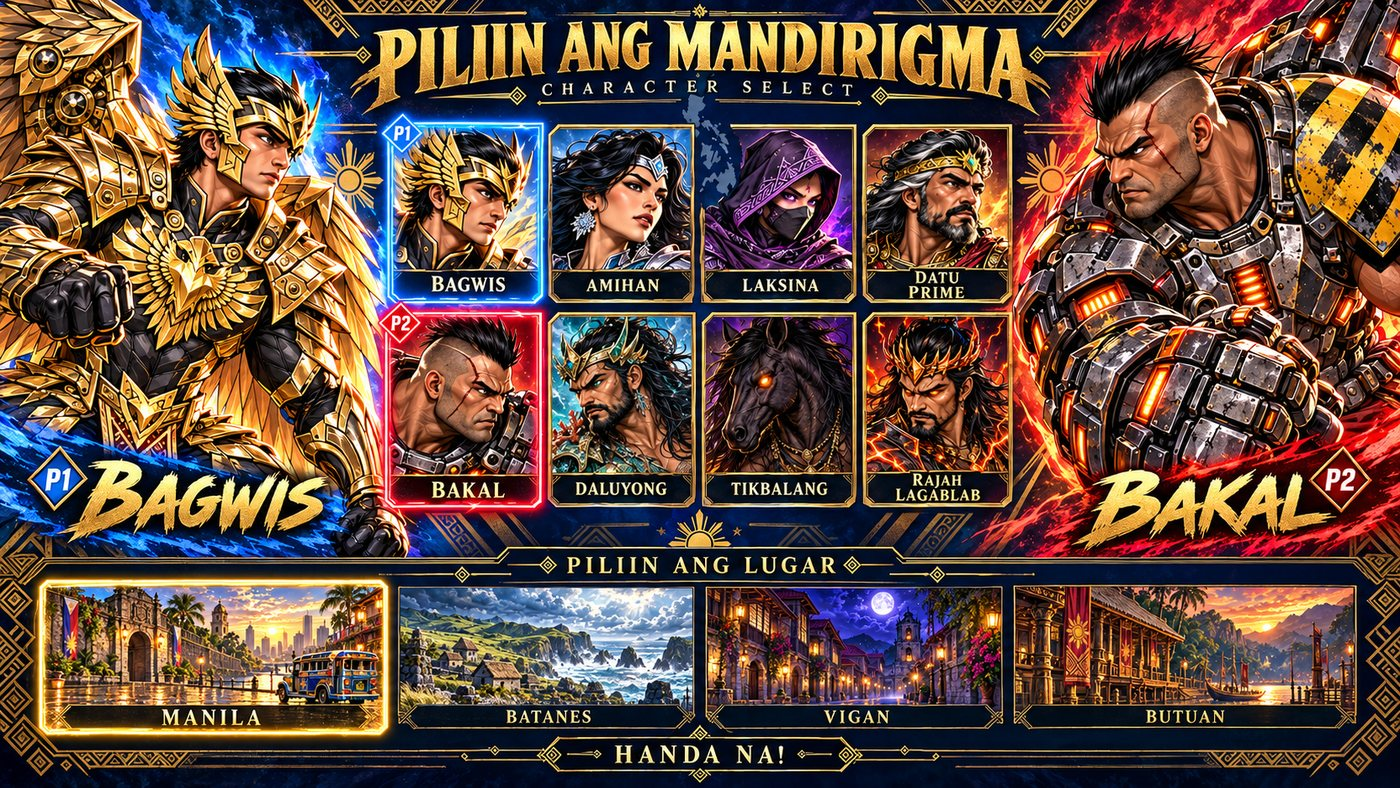
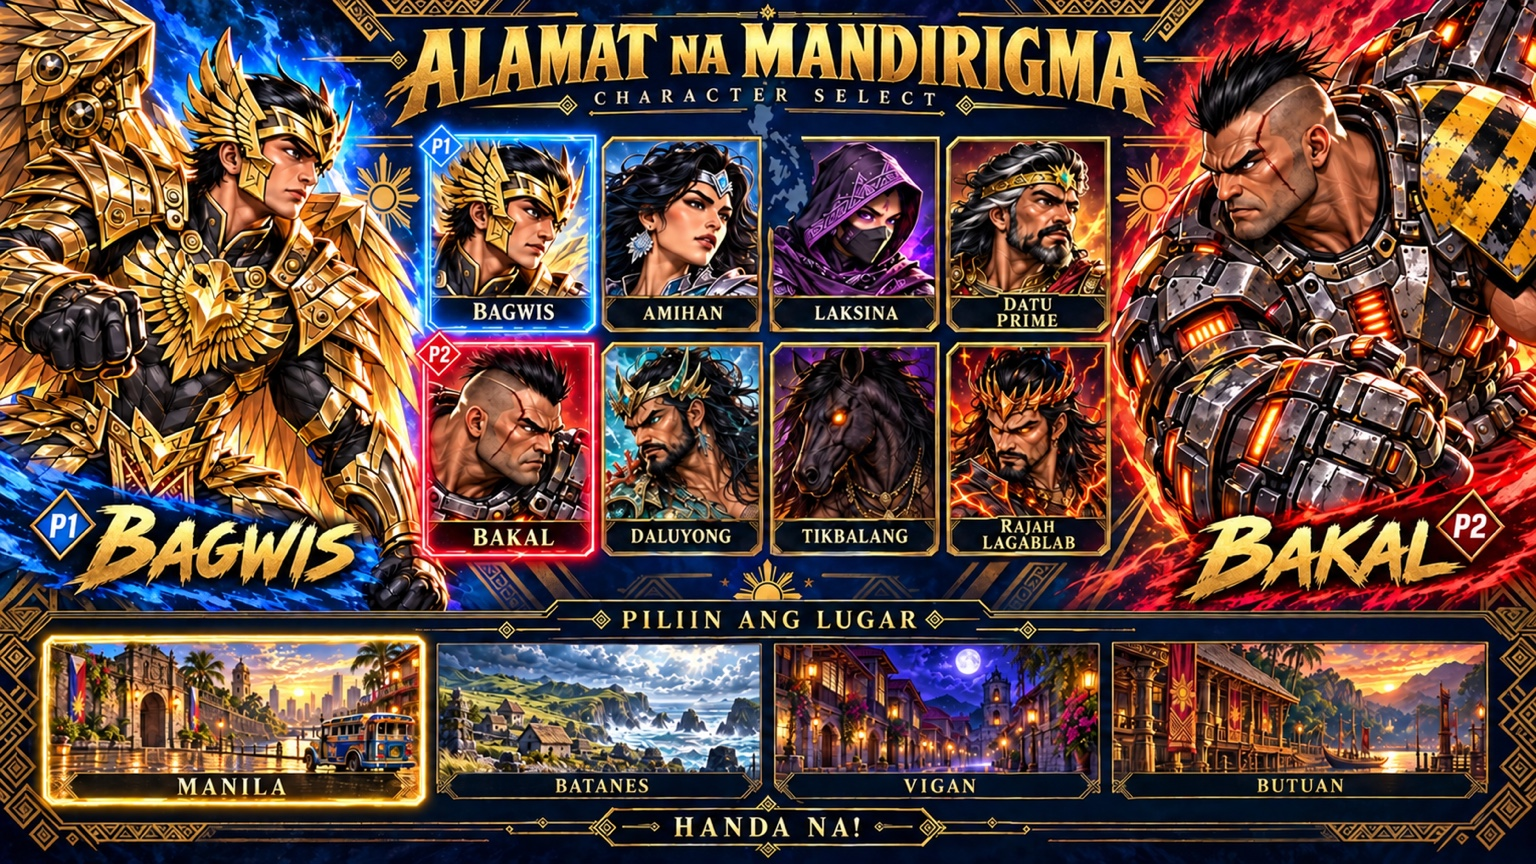
Replace website artwork with ALAMAT NA MANDIRIGMA image

Changed region(s): [[0.0, 0.0, 1.0, 1.0]]

diff --git a/laf-game-series/styles.css b/laf-game-series/styles.css
@@ -1,4 +1,4 @@
-:root{--bg:#f4eedf;--ink:#191713;--char:#211f1b;--gold:#c99b43;--gold2:#efd79d;--cream:#fff9ed;--muted:#756d60;--line:#d7c7a7;--black:#0b0b0a}*{box-sizing:border-box}html{scroll-behavior:smooth}body{margin:0;background:var(--bg);color:var(--ink);font-family:Inter,ui-sans-serif,system-ui,-apple-system,BlinkMacSystemFont,"Segoe UI",sans-serif;overflow-x:hidden}.pattern{position:fixed;z-index:-1;opacity:.14;pointer-events:none}.pattern-a{width:420px;height:420px;right:-180px;top:80px;background:repeating-linear-gradient(45deg,var(--gold) 0 2px,transparent 2px 14px);transform:rotate(15deg)}.pattern-b{width:360px;height:360px;left:-190px;bottom:40px;border:1px solid var(--gold);border-radius:50%;box-shadow:0 0 0 18px transparent,0 0 0 20px var(--gold),0 0 0 40px transparent,0 0 0 42px var(--gold)}.topbar{position:sticky;top:0;z-index:100;display:flex;align-items:center;justify-content:space-between;gap:24px;padding:14px clamp(18px,4vw,64px);background:rgba(244,238,223,.9);border-bottom:1px solid rgba(117,109,96,.25);backdrop-filter:blur(15px)}.brand{display:flex;align-items:center;gap:10px;text-decoration:none;color:var(--ink)}.brand-mark{display:grid;place-items:center;width:42px;height:42px;border:1px solid var(--gold);background:var(--char);color:var(--gold2);font-weight:900;letter-spacing:-1px}.brand-mark.logo-mark{overflow:hidden;padding:2px}.brand-mark.logo-mark img{width:100%;height:100%;object-fit:contain;display:block}.brand strong,.brand small{display:block}.brand strong{font-size:13px;letter-spacing:.12em}.brand small{font-size:9px;letter-spacing:.3em;color:var(--muted);margin-top:2px}.nav{display:flex;gap:24px}.nav a{color:var(--ink);text-decoration:none;text-transform:uppercase;font-size:11px;font-weight:800;letter-spacing:.12em}.menu{display:none;border:0;background:transparent;font-size:26px}.hero{min-height:82vh;padding:clamp(50px,8vw,110px) clamp(18px,6vw,90px);display:grid;grid-template-columns:1.1fr .9fr;align-items:center;gap:clamp(30px,6vw,90px)}.eyebrow{font-size:11px;font-weight:900;letter-spacing:.22em;color:#9b6d1e}.hero h1{font-family:Georgia,serif;font-size:clamp(50px,8vw,118px);line-height:.84;letter-spacing:-.055em;margin:14px 0 26px}.hero h1 span{color:#a87927}.lead{max-width:700px;font-size:clamp(17px,2vw,23px);line-height:1.55;color:#4d473e}.cta-row{display:flex;gap:12px;flex-wrap:wrap;margin-top:28px}.btn{display:inline-flex;align-items:center;justify-content:center;min-height:48px;padding:0 20px;border:1px solid var(--ink);font-size:11px;font-weight:900;letter-spacing:.1em;text-decoration:none;cursor:pointer}.btn.primary{background:var(--ink);color:var(--cream)}.btn.ghost{background:transparent;color:var(--ink)}.btn:disabled{opacity:.42;cursor:not-allowed}.pay-strip{display:flex;align-items:center;gap:15px;flex-wrap:wrap;margin-top:38px;font-size:10px}.pay-strip span{color:var(--muted);letter-spacing:.14em}.pay-strip b{padding:6px 9px;border:1px solid var(--line);background:#fff8}.hero-card{position:relative;background:var(--char);padding:12px;box-shadow:0 28px 70px #2f271b2d;transform:none}.hero-image{aspect-ratio:16/9;background:#101c2d url('assets/alamat-hero.jpg?v=9') center/cover no-repeat;filter:none}.hero-meta{padding:18px;color:var(--cream)}.hero-meta strong,.hero-meta small{display:block}.hero-meta strong{font-family:Georgia,serif;font-size:clamp(22px,3vw,38px);margin-top:9px}.hero-meta small{color:var(--gold2);letter-spacing:.18em}.tag{display:inline-block;background:var(--gold2);color:var(--black);padding:5px 8px;font-size:9px;font-weight:900;letter-spacing:.16em}.section{padding:clamp(70px,9vw,130px) clamp(18px,6vw,90px)}.section.dark{background:var(--char);color:var(--cream)}.section-head{display:grid;grid-template-columns:1fr minmax(260px,520px);gap:30px;align-items:end;margin-bottom:42px}.section h2{font-family:Georgia,serif;font-size:clamp(42px,6vw,76px);line-height:.96;margin:8px 0}.section-head>p{color:var(--muted);line-height:1.6}.dark .section-head>p{color:#c4baa9}.game-card{display:grid;grid-template-columns:minmax(0,1.1fr) minmax(320px,.9fr);background:var(--cream);border:1px solid var(--line);overflow:hidden}.game-card img{width:100%;height:100%;object-fit:contain;background:#101c2d;min-height:430px}.game-info{padding:clamp(28px,5vw,64px);align-self:center}.game-info h3{font-family:Georgia,serif;font-size:clamp(34px,5vw,64px);margin:12px 0}.game-info p{color:#5f574b;line-height:1.65}.chips{display:flex;gap:7px;flex-wrap:wrap;margin-top:22px}.chips span{border:1px solid var(--line);padding:6px 9px;font-size:10px;text-transform:uppercase;letter-spacing:.08em}.coming-grid{display:grid;grid-template-columns:1fr 1fr;gap:18px;margin-top:18px}.coming{border:1px dashed #ae9b76;padding:32px;background:#fff5}.coming span{font-family:Georgia,serif;font-size:40px;color:var(--gold)}.coming h3{margin:6px 0}.coming p{color:var(--muted)}.demo-panel,.library-card{display:flex;align-items:center;justify-content:space-between;gap:30px;border:1px solid #5f574b;padding:clamp(26px,5vw,55px);background:#161512}.demo-panel h3{font-family:Georgia,serif;font-size:clamp(28px,4vw,50px);margin:12px 0}.dark .btn.ghost{border-color:var(--gold2);color:var(--gold2)}.store-grid{display:grid;grid-template-columns:minmax(320px,.85fr) minmax(420px,1.15fr);gap:20px}.product-card,.checkout-box{background:var(--cream);border:1px solid var(--line);padding:30px}.product-card img{width:88px;height:88px;object-fit:cover;float:left;margin:0 20px 12px 0}.product-card h3{font-family:Georgia,serif;font-size:32px;margin:10px 0}.product-card p{color:var(--muted);line-height:1.55}.price{clear:both;font-family:Georgia,serif;font-size:38px;margin:25px 0 14px}.product-card .btn{width:100%}.checkout-box h3{font-family:Georgia,serif;font-size:32px;margin-top:0}.pay-grid{display:grid;grid-template-columns:repeat(2,1fr);gap:10px}.pay-grid div{border:1px solid var(--line);padding:16px;font-weight:900}.pay-grid small{display:block;color:var(--muted);font-weight:500;margin-top:5px}.security{border-left:3px solid var(--gold);padding-left:14px;margin-top:20px;color:var(--muted);line-height:1.6}.library-card p{max-width:760px;color:#c4baa9;line-height:1.6}.about-grid{display:grid;grid-template-columns:1fr 1fr;gap:60px}.about-grid>div>p{font-size:17px;line-height:1.7;color:#655d51}.quote{font-family:Georgia,serif;font-size:25px!important;color:#9b6d1e!important}.roadmap{border-left:1px solid var(--line);padding-left:40px}.roadmap h3{font-family:Georgia,serif;font-size:36px}.roadmap ol{list-style:none;padding:0}.roadmap li{padding:14px 0;border-bottom:1px solid var(--line);color:#5e5549}.roadmap b{display:inline-block;color:#9b6d1e;width:44px}footer{display:flex;align-items:center;justify-content:space-between;gap:20px;padding:30px clamp(18px,6vw,90px);border-top:1px solid var(--line);background:#e9dfca}footer p{font-size:11px;color:var(--muted)}.legal{max-width:980px;margin:auto;padding:60px 22px 100px}.legal h1{font-family:Georgia,serif;font-size:clamp(38px,6vw,68px);margin:8px 0}.legal h2{font-family:Georgia,serif;margin-top:34px}.legal a{color:#7a571e}.legal .meta{color:#776b58}.legal-nav{display:flex;gap:12px;flex-wrap:wrap;margin:26px 0}.policy-card,.contact-card{background:var(--cream);border:1px solid var(--line);padding:24px;margin:18px 0}.contact-grid{display:grid;grid-template-columns:1fr 1fr;gap:22px}.contact-grid label{display:block;font-weight:800;margin-bottom:14px}.contact-grid input,.contact-grid select,.contact-grid textarea{width:100%;margin-top:6px;padding:12px;border:1px solid #b79e70;background:#fffdf8;font:inherit}.contact-grid textarea{min-height:160px;resize:vertical}.check{display:flex!important;gap:10px;align-items:flex-start;font-weight:500!important}.check input{width:auto;margin-top:4px}.message{padding:12px;margin-top:12px}.message.ok{background:#dff2e4;color:#255f35}.message.err{background:#f7dddd;color:#762f2f}.notice{background:#fff0c7;border:1px solid #c89f47;padding:10px;color:#4b3a1b}@media(max-width:900px){.nav{display:none;position:absolute;left:0;right:0;top:71px;background:var(--bg);padding:20px;flex-direction:column;border-bottom:1px solid var(--line)}.nav.open{display:flex}.menu{display:block}.hero{grid-template-columns:1fr;min-height:auto}.hero-card{transform:none}.section-head,.game-card,.store-grid,.about-grid,.contact-grid{grid-template-columns:1fr}.section-head{align-items:start}.game-card img{min-height:280px}.coming-grid{grid-template-columns:1fr}.demo-panel,.library-card{align-items:flex-start;flex-direction:column}.pay-grid{grid-template-columns:1fr 1fr}.roadmap{border-left:0;border-top:1px solid var(--line);padding:30px 0 0}footer{align-items:flex-start;flex-direction:column}}@media(max-width:520px){.pay-grid{grid-template-columns:1fr}.hero h1{font-size:52px}.topbar{padding:12px 16px}.brand strong{font-size:11px}.section,.hero{padding-left:16px;padding-right:16px}.btn{width:100%}}
+:root{--bg:#f4eedf;--ink:#191713;--char:#211f1b;--gold:#c99b43;--gold2:#efd79d;--cream:#fff9ed;--muted:#756d60;--line:#d7c7a7;--black:#0b0b0a}*{box-sizing:border-box}html{scroll-behavior:smooth}body{margin:0;background:var(--bg);color:var(--ink);font-family:Inter,ui-sans-serif,system-ui,-apple-system,BlinkMacSystemFont,"Segoe UI",sans-serif;overflow-x:hidden}.pattern{position:fixed;z-index:-1;opacity:.14;pointer-events:none}.pattern-a{width:420px;height:420px;right:-180px;top:80px;background:repeating-linear-gradient(45deg,var(--gold) 0 2px,transparent 2px 14px);transform:rotate(15deg)}.pattern-b{width:360px;height:360px;left:-190px;bottom:40px;border:1px solid var(--gold);border-radius:50%;box-shadow:0 0 0 18px transparent,0 0 0 20px var(--gold),0 0 0 40px transparent,0 0 0 42px var(--gold)}.topbar{position:sticky;top:0;z-index:100;display:flex;align-items:center;justify-content:space-between;gap:24px;padding:14px clamp(18px,4vw,64px);background:rgba(244,238,223,.9);border-bottom:1px solid rgba(117,109,96,.25);backdrop-filter:blur(15px)}.brand{display:flex;align-items:center;gap:10px;text-decoration:none;color:var(--ink)}.brand-mark{display:grid;place-items:center;width:42px;height:42px;border:1px solid var(--gold);background:var(--char);color:var(--gold2);font-weight:900;letter-spacing:-1px}.brand-mark.logo-mark{overflow:hidden;padding:2px}.brand-mark.logo-mark img{width:100%;height:100%;object-fit:contain;display:block}.brand strong,.brand small{display:block}.brand strong{font-size:13px;letter-spacing:.12em}.brand small{font-size:9px;letter-spacing:.3em;color:var(--muted);margin-top:2px}.nav{display:flex;gap:24px}.nav a{color:var(--ink);text-decoration:none;text-transform:uppercase;font-size:11px;font-weight:800;letter-spacing:.12em}.menu{display:none;border:0;background:transparent;font-size:26px}.hero{min-height:82vh;padding:clamp(50px,8vw,110px) clamp(18px,6vw,90px);display:grid;grid-template-columns:1.1fr .9fr;align-items:center;gap:clamp(30px,6vw,90px)}.eyebrow{font-size:11px;font-weight:900;letter-spacing:.22em;color:#9b6d1e}.hero h1{font-family:Georgia,serif;font-size:clamp(50px,8vw,118px);line-height:.84;letter-spacing:-.055em;margin:14px 0 26px}.hero h1 span{color:#a87927}.lead{max-width:700px;font-size:clamp(17px,2vw,23px);line-height:1.55;color:#4d473e}.cta-row{display:flex;gap:12px;flex-wrap:wrap;margin-top:28px}.btn{display:inline-flex;align-items:center;justify-content:center;min-height:48px;padding:0 20px;border:1px solid var(--ink);font-size:11px;font-weight:900;letter-spacing:.1em;text-decoration:none;cursor:pointer}.btn.primary{background:var(--ink);color:var(--cream)}.btn.ghost{background:transparent;color:var(--ink)}.btn:disabled{opacity:.42;cursor:not-allowed}.pay-strip{display:flex;align-items:center;gap:15px;flex-wrap:wrap;margin-top:38px;font-size:10px}.pay-strip span{color:var(--muted);letter-spacing:.14em}.pay-strip b{padding:6px 9px;border:1px solid var(--line);background:#fff8}.hero-card{position:relative;background:var(--char);padding:12px;box-shadow:0 28px 70px #2f271b2d;transform:none}.hero-image{aspect-ratio:16/9;background:#101c2d url('assets/alamat-hero.jpg?v=11') center/cover no-repeat;filter:none}.hero-meta{padding:18px;color:var(--cream)}.hero-meta strong,.hero-meta small{display:block}.hero-meta strong{font-family:Georgia,serif;font-size:clamp(22px,3vw,38px);margin-top:9px}.hero-meta small{color:var(--gold2);letter-spacing:.18em}.tag{display:inline-block;background:var(--gold2);color:var(--black);padding:5px 8px;font-size:9px;font-weight:900;letter-spacing:.16em}.section{padding:clamp(70px,9vw,130px) clamp(18px,6vw,90px)}.section.dark{background:var(--char);color:var(--cream)}.section-head{display:grid;grid-template-columns:1fr minmax(260px,520px);gap:30px;align-items:end;margin-bottom:42px}.section h2{font-family:Georgia,serif;font-size:clamp(42px,6vw,76px);line-height:.96;margin:8px 0}.section-head>p{color:var(--muted);line-height:1.6}.dark .section-head>p{color:#c4baa9}.game-card{display:grid;grid-template-columns:minmax(0,1.1fr) minmax(320px,.9fr);background:var(--cream);border:1px solid var(--line);overflow:hidden}.game-card img{width:100%;height:100%;object-fit:contain;background:#101c2d;min-height:430px}.game-info{padding:clamp(28px,5vw,64px);align-self:center}.game-info h3{font-family:Georgia,serif;font-size:clamp(34px,5vw,64px);margin:12px 0}.game-info p{color:#5f574b;line-height:1.65}.chips{display:flex;gap:7px;flex-wrap:wrap;margin-top:22px}.chips span{border:1px solid var(--line);padding:6px 9px;font-size:10px;text-transform:uppercase;letter-spacing:.08em}.coming-grid{display:grid;grid-template-columns:1fr 1fr;gap:18px;margin-top:18px}.coming{border:1px dashed #ae9b76;padding:32px;background:#fff5}.coming span{font-family:Georgia,serif;font-size:40px;color:var(--gold)}.coming h3{margin:6px 0}.coming p{color:var(--muted)}.demo-panel,.library-card{display:flex;align-items:center;justify-content:space-between;gap:30px;border:1px solid #5f574b;padding:clamp(26px,5vw,55px);background:#161512}.demo-panel h3{font-family:Georgia,serif;font-size:clamp(28px,4vw,50px);margin:12px 0}.dark .btn.ghost{border-color:var(--gold2);color:var(--gold2)}.store-grid{display:grid;grid-template-columns:minmax(320px,.85fr) minmax(420px,1.15fr);gap:20px}.product-card,.checkout-box{background:var(--cream);border:1px solid var(--line);padding:30px}.product-card img{width:88px;height:88px;object-fit:cover;float:left;margin:0 20px 12px 0}.product-card h3{font-family:Georgia,serif;font-size:32px;margin:10px 0}.product-card p{color:var(--muted);line-height:1.55}.price{clear:both;font-family:Georgia,serif;font-size:38px;margin:25px 0 14px}.product-card .btn{width:100%}.checkout-box h3{font-family:Georgia,serif;font-size:32px;margin-top:0}.pay-grid{display:grid;grid-template-columns:repeat(2,1fr);gap:10px}.pay-grid div{border:1px solid var(--line);padding:16px;font-weight:900}.pay-grid small{display:block;color:var(--muted);font-weight:500;margin-top:5px}.security{border-left:3px solid var(--gold);padding-left:14px;margin-top:20px;color:var(--muted);line-height:1.6}.library-card p{max-width:760px;color:#c4baa9;line-height:1.6}.about-grid{display:grid;grid-template-columns:1fr 1fr;gap:60px}.about-grid>div>p{font-size:17px;line-height:1.7;color:#655d51}.quote{font-family:Georgia,serif;font-size:25px!important;color:#9b6d1e!important}.roadmap{border-left:1px solid var(--line);padding-left:40px}.roadmap h3{font-family:Georgia,serif;font-size:36px}.roadmap ol{list-style:none;padding:0}.roadmap li{padding:14px 0;border-bottom:1px solid var(--line);color:#5e5549}.roadmap b{display:inline-block;color:#9b6d1e;width:44px}footer{display:flex;align-items:center;justify-content:space-between;gap:20px;padding:30px clamp(18px,6vw,90px);border-top:1px solid var(--line);background:#e9dfca}footer p{font-size:11px;color:var(--muted)}.legal{max-width:980px;margin:auto;padding:60px 22px 100px}.legal h1{font-family:Georgia,serif;font-size:clamp(38px,6vw,68px);margin:8px 0}.legal h2{font-family:Georgia,serif;margin-top:34px}.legal a{color:#7a571e}.legal .meta{color:#776b58}.legal-nav{display:flex;gap:12px;flex-wrap:wrap;margin:26px 0}.policy-card,.contact-card{background:var(--cream);border:1px solid var(--line);padding:24px;margin:18px 0}.contact-grid{display:grid;grid-template-columns:1fr 1fr;gap:22px}.contact-grid label{display:block;font-weight:800;margin-bottom:14px}.contact-grid input,.contact-grid select,.contact-grid textarea{width:100%;margin-top:6px;padding:12px;border:1px solid #b79e70;background:#fffdf8;font:inherit}.contact-grid textarea{min-height:160px;resize:vertical}.check{display:flex!important;gap:10px;align-items:flex-start;font-weight:500!important}.check input{width:auto;margin-top:4px}.message{padding:12px;margin-top:12px}.message.ok{background:#dff2e4;color:#255f35}.message.err{background:#f7dddd;color:#762f2f}.notice{background:#fff0c7;border:1px solid #c89f47;padding:10px;color:#4b3a1b}@media(max-width:900px){.nav{display:none;position:absolute;left:0;right:0;top:71px;background:var(--bg);padding:20px;flex-direction:column;border-bottom:1px solid var(--line)}.nav.open{display:flex}.menu{display:block}.hero{grid-template-columns:1fr;min-height:auto}.hero-card{transform:none}.section-head,.game-card,.store-grid,.about-grid,.contact-grid{grid-template-columns:1fr}.section-head{align-items:start}.game-card img{min-height:280px}.coming-grid{grid-template-columns:1fr}.demo-panel,.library-card{align-items:flex-start;flex-direction:column}.pay-grid{grid-template-columns:1fr 1fr}.roadmap{border-left:0;border-top:1px solid var(--line);padding:30px 0 0}footer{align-items:flex-start;flex-direction:column}}@media(max-width:520px){.pay-grid{grid-template-columns:1fr}.hero h1{font-size:52px}.topbar{padding:12px 16px}.brand strong{font-size:11px}.section,.hero{padding-left:16px;padding-right:16px}.btn{width:100%}}
 .hidden{display:none!important}.footer-links{display:flex;gap:14px;flex-wrap:wrap}.footer-links a{color:var(--ink);text-decoration:none;font-size:11px;font-weight:800;letter-spacing:.08em;text-transform:uppercase}.product-card>img{width:100%;height:auto;max-height:none;object-fit:contain;float:none;margin:0 0 22px 0;background:#101c2d}.price small{font-family:Inter,system-ui,sans-serif;font-size:13px;color:var(--muted)}.purchase-note{font-size:12px;color:var(--muted);margin:12px 0 0}.pay-active{border-color:var(--gold)!important;box-shadow:inset 0 0 0 1px var(--gold)}.library-actions{display:flex;gap:10px;flex-wrap:wrap}.library-items{display:grid;gap:12px;margin-top:20px}.library-item{border:1px solid #5f574b;padding:18px;background:#1c1a16}.library-item h3{font-family:Georgia,serif;margin:0 0 6px}.library-item p{color:#c4baa9}.auth-dialog{border:0;padding:0;background:transparent;max-width:min(92vw,520px);width:100%}.auth-dialog::backdrop{background:#0009;backdrop-filter:blur(4px)}.auth-shell{position:relative;background:var(--cream);border:1px solid var(--line);padding:32px;color:var(--ink);box-shadow:0 25px 80px #0006}.dialog-close{position:absolute;right:14px;top:10px;border:0;background:transparent;font-size:30px;cursor:pointer}.auth-shell h2{font-family:Georgia,serif;font-size:38px;margin:8px 0 18px}.auth-tabs{display:grid;grid-template-columns:1fr 1fr;gap:8px;margin-bottom:18px}.auth-tab{padding:11px;border:1px solid var(--line);background:transparent;font-weight:900;cursor:pointer}.auth-tab.active{background:var(--char);color:var(--cream)}.auth-shell label{display:block;font-size:12px;font-weight:800;margin:12px 0}.auth-shell input{width:100%;padding:12px;border:1px solid var(--line);background:#fff;font:inherit;margin-top:6px}.auth-shell form .btn{width:100%;margin-top:10px}.auth-message{min-height:22px;font-size:13px}.auth-message.ok{color:#24633d}.auth-message.err{color:#9a2e2e}.auth-small{font-size:11px;color:var(--muted)}
 
 .store-buy-actions{display:grid;gap:10px}.store-buy-actions .btn{width:100%}
@@ -17,7 +17,7 @@
 #purchaseStatus.err{color:#942d25}
 
 /* Corrected high-resolution ALAMAT poster treatment */
-.poster-art{position:relative;overflow:hidden;background:#07162e url('assets/alamat-hero.jpg?v=9') center/cover no-repeat}
+.poster-art{position:relative;overflow:hidden;background:#07162e url('assets/alamat-hero.jpg?v=11') center/cover no-repeat}
 .poster-art::before{content:"";position:absolute;z-index:1;top:0;left:22%;right:22%;height:15.5%;background:linear-gradient(180deg,rgba(5,16,39,.99),rgba(6,21,49,.97));border-bottom:2px solid #c99b43;box-shadow:0 3px 14px #0009}
 .poster-art::after{content:"ALAMAT NA MANDIRIGMA\A(VOLUME 1)";white-space:pre;position:absolute;z-index:2;top:1.7%;left:19%;right:19%;text-align:center;color:#f2c35d;font-family:Georgia,"Times New Roman",serif;font-weight:900;font-size:clamp(12px,2.2vw,34px);line-height:1.02;letter-spacing:.025em;text-shadow:0 2px 2px #000,0 0 10px #000}
 .catalog-poster{min-height:430px;width:100%;height:100%;background-size:cover}
@@ -36,7 +36,7 @@
 .hero-image,
 .catalog-poster,
 .store-poster{
-  background-image:url('assets/alamat-hero.jpg?v=10') !important;
+  background-image:url('assets/alamat-hero.jpg?v=11') !important;
   background-size:cover !important;
   background-position:center !important;
   background-repeat:no-repeat !important;

diff --git a/index.html b/index.html
@@ -8,7 +8,7 @@
   <meta name="description" content="Official home of LOKAL AFRO FLIP GAME SERIES — original games, demos, releases and direct purchases." />
   <meta property="og:title" content="ALAMAT na MANDIRIGMA (VOLUME 1) — LOKAL AFRO FLIP GAME SERIES" />
   <meta property="og:description" content="Now available from LOKAL AFRO FLIP GAME SERIES. Play the demo or get the full game." />
-  <meta property="og:image" content="https://lokalafroflip.com/laf-game-series/assets/alamat-hero.jpg?v=10" />
+  <meta property="og:image" content="https://lokalafroflip.com/laf-game-series/assets/alamat-hero.jpg?v=11" />
   <meta property="og:image:width" content="900" />
   <meta property="og:image:height" content="507" />
   <meta property="og:url" content="https://lokalafroflip.com/" />
@@ -16,9 +16,9 @@
   <meta name="twitter:card" content="summary_large_image" />
   <meta name="twitter:title" content="ALAMAT na MANDIRIGMA (VOLUME 1)" />
   <meta name="twitter:description" content="Now available from LOKAL AFRO FLIP GAME SERIES." />
-  <meta name="twitter:image" content="https://lokalafroflip.com/laf-game-series/assets/alamat-hero.jpg?v=10" />
+  <meta name="twitter:image" content="https://lokalafroflip.com/laf-game-series/assets/alamat-hero.jpg?v=11" />
   <link rel="canonical" href="https://lokalafroflip.com/" />
-  <link rel="stylesheet" href="/laf-game-series/styles.css?v=poster10" />
+  <link rel="stylesheet" href="/laf-game-series/styles.css?v=poster11" />
   <script src="https://cdn.jsdelivr.net/npm/@supabase/supabase-js@2"></script>
 </head>
 <body>

diff --git a/laf-game-series/index.html b/laf-game-series/index.html
@@ -8,7 +8,7 @@
   <meta name="description" content="Official home of LOKAL AFRO FLIP GAME SERIES — original games, demos, releases and direct purchases." />
   <meta property="og:title" content="ALAMAT na MANDIRIGMA (VOLUME 1) — LOKAL AFRO FLIP GAME SERIES" />
   <meta property="og:description" content="Now available from LOKAL AFRO FLIP GAME SERIES. Play the demo or get the full game." />
-  <meta property="og:image" content="https://lokalafroflip.com/laf-game-series/assets/alamat-hero.jpg?v=10" />
+  <meta property="og:image" content="https://lokalafroflip.com/laf-game-series/assets/alamat-hero.jpg?v=11" />
   <meta property="og:image:width" content="900" />
   <meta property="og:image:height" content="507" />
   <meta property="og:url" content="https://lokalafroflip.com/laf-game-series/" />
@@ -16,8 +16,8 @@
   <meta name="twitter:card" content="summary_large_image" />
   <meta name="twitter:title" content="ALAMAT na MANDIRIGMA (VOLUME 1)" />
   <meta name="twitter:description" content="Now available from LOKAL AFRO FLIP GAME SERIES." />
-  <meta name="twitter:image" content="https://lokalafroflip.com/laf-game-series/assets/alamat-hero.jpg?v=10" />
-  <link rel="stylesheet" href="styles.css?v=poster10" />
+  <meta name="twitter:image" content="https://lokalafroflip.com/laf-game-series/assets/alamat-hero.jpg?v=11" />
+  <link rel="stylesheet" href="styles.css?v=poster11" />
   <script src="https://cdn.jsdelivr.net/npm/@supabase/supabase-js@2"></script>
 </head>
 <body>
